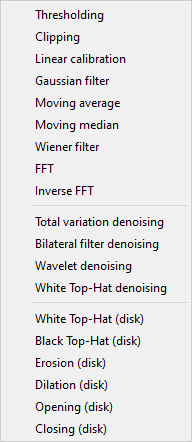
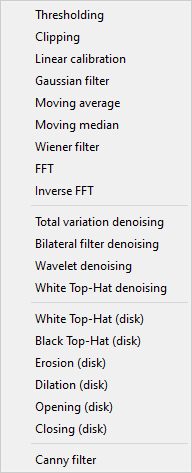
Added Canny filter (edge detection)

Changed region(s): [[0.1562, 0.0, 0.875, 1.0], [0.1875, 0.0, 0.2188, 0.0294]]

diff --git a/codraft/core/gui/processor/image.py b/codraft/core/gui/processor/image.py
@@ -20,6 +20,7 @@ from guiqwt.widgets.resizedialog import ResizeDialog
 from numpy import ma
 from qtpy import QtWidgets as QW
 from skimage import morphology
+from skimage.feature import canny
 from skimage.restoration import denoise_bilateral, denoise_tv_chambolle, denoise_wavelet
 
 from codraft.config import APP_NAME, _
@@ -205,7 +206,7 @@ class DenoiseBilateralParam(DataSet):
         "cval",
         default=0,
         help=_(
-            "Used in conjunction with mode ‘constant’, "
+            "Used in conjunction with mode 'constant', "
             "the value outside the image boundaries."
         ),
     )
@@ -228,6 +229,46 @@ class MorphologyParam(DataSet):
     """White Top-Hat parameters"""
 
     radius = IntItem(_("Radius"), default=1, min=1, help=_("Footprint (disk) radius."))
+
+
+class CannyParam(DataSet):
+    """Canny filter parameters"""
+
+    sigma = FloatItem(
+        "Sigma",
+        default=1.0,
+        min=0,
+        nonzero=True,
+        help=_("Standard deviation of the Gaussian filter."),
+    )
+    low_threshold = FloatItem(
+        _("Low threshold"),
+        default=.1,
+        min=0,
+        help=_("Lower bound for hysteresis thresholding (linking edges)."),
+    )
+    high_threshold = FloatItem(
+        _("High threshold"),
+        default=.9,
+        min=0,
+        help=_("Upper bound for hysteresis thresholding (linking edges)."),
+    )
+    use_quantiles = BoolItem(
+        _("Use quantiles"),
+        default=True,
+        help=_(
+            "If True then treat low_threshold and high_threshold as quantiles "
+            "of the edge magnitude image, rather than absolute edge magnitude "
+            "values. If True then the thresholds must be in the range [0, 1]."
+        ),
+    )
+    _modelist = ("reflect", "constant", "nearest", "mirror", "wrap")
+    mode = ChoiceItem(_("Mode"), list(zip(_modelist, _modelist)), default="constant")
+    cval = FloatItem(
+        "cval",
+        default=0.0,
+        help=_("Value to fill past edges of input if mode is constant."),
+    )
 
 
 class GenericDetectionParam(DataSet):
@@ -729,6 +770,34 @@ class ImageProcessor(BaseProcessor):
     def compute_closing(self, param: MorphologyParam = None) -> None:
         """Compute morphological closing"""
         self._morph(param, morphology.closing, _("Closing"), "ClosingDisk")
+
+    @qt_try_except()
+    def compute_canny(self, param: CannyParam = None) -> None:
+        """Denoise using White Top-Hat"""
+        edit = param is None
+        if edit:
+            param = CannyParam(_("Canny filter"))
+
+        self.compute_11(
+            "Canny",
+            lambda x, p: np.array(
+                canny(
+                    x,
+                    sigma=p.sigma,
+                    low_threshold=p.low_threshold,
+                    high_threshold=p.high_threshold,
+                    use_quantiles=p.use_quantiles,
+                    mode=p.mode,
+                    cval=p.cval,
+                ),
+                dtype=np.uint8,
+            ),
+            param,
+            suffix=lambda p: f"sigma={p.sigma},low_threshold={p.low_threshold},"
+            f"high_threshold={p.high_threshold},use_quantiles={p.use_quantiles},"
+            f"mode={p.mode},cval={p.cval}",
+            edit=edit,
+        )
 
     # ------Image Computing
     def apply_10_func(self, orig, func, param, message) -> ResultShape:

diff --git a/codraft/core/gui/actionhandler.py b/codraft/core/gui/actionhandler.py
@@ -489,8 +489,18 @@ class ImageActionHandler(BaseActionHandler):
             opening_act,
             closing_act,
         ]
-        self.actlist_1more += denoise_actions + morph_actions
-        return base_actions + [None] + denoise_actions + [None] + morph_actions
+        canny_act = self.cra(_("Canny filter"), proc.compute_canny)
+        misc_actions = [canny_act]
+        self.actlist_1more += denoise_actions + morph_actions + misc_actions
+        return (
+            base_actions
+            + [None]
+            + denoise_actions
+            + [None]
+            + morph_actions
+            + [None]
+            + misc_actions
+        )
 
     def create_computing_actions(self):
         """Create computing actions"""

diff --git a/codraft/tests/scenario_ima_app.py b/codraft/tests/scenario_ima_app.py
@@ -17,6 +17,7 @@ Testing the following:
 
 from codraft.core.gui.main import CodraFTMainWindow
 from codraft.core.gui.processor.image import (
+    CannyParam,
     ContourShapeParam,
     DenoiseBilateralParam,
     DenoiseTVParam,
@@ -83,6 +84,9 @@ def test_image_features(win: CodraFTMainWindow, data_size: int = 150) -> None:
     panel.processor.compute_dilation(param)
     panel.processor.compute_opening(param)
     panel.processor.compute_closing(param)
+
+    param = CannyParam()
+    panel.processor.compute_canny(param)
 
     param = LogP1Param()
     param.n = 1

diff --git a/doc/features/image/menu/processing.rst b/doc/features/image/menu/processing.rst
@@ -80,3 +80,7 @@ Opening (disk)
 Closing (disk)
     Perform morphological closing on an image, using a disk footprint
     (implementation based on `skimage.morphology.closing <https://scikit-image.org/docs/stable/api/skimage.morphology.html#skimage.morphology.closing>`_)
+
+Canny filter
+    Perform edge filtering on an image, using the Canny algorithm
+    (implementation based on `skimage.feature.canny <https://scikit-image.org/docs/stable/api/skimage.feature.html#skimage.feature.canny>`_)

diff --git a/CHANGELOG.md b/CHANGELOG.md
@@ -20,6 +20,7 @@ New features:
     * Dilation
     * Opening
     * Closing
+  * Added Canny filter (edge detection)
 * Added support for XYZ image files
 
 Bug fixes:
